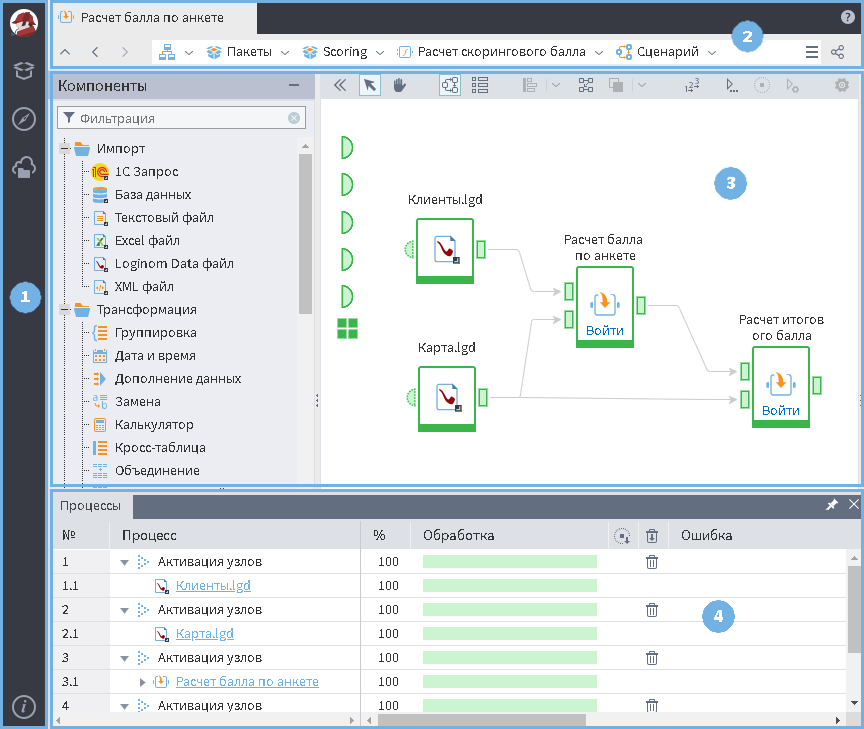
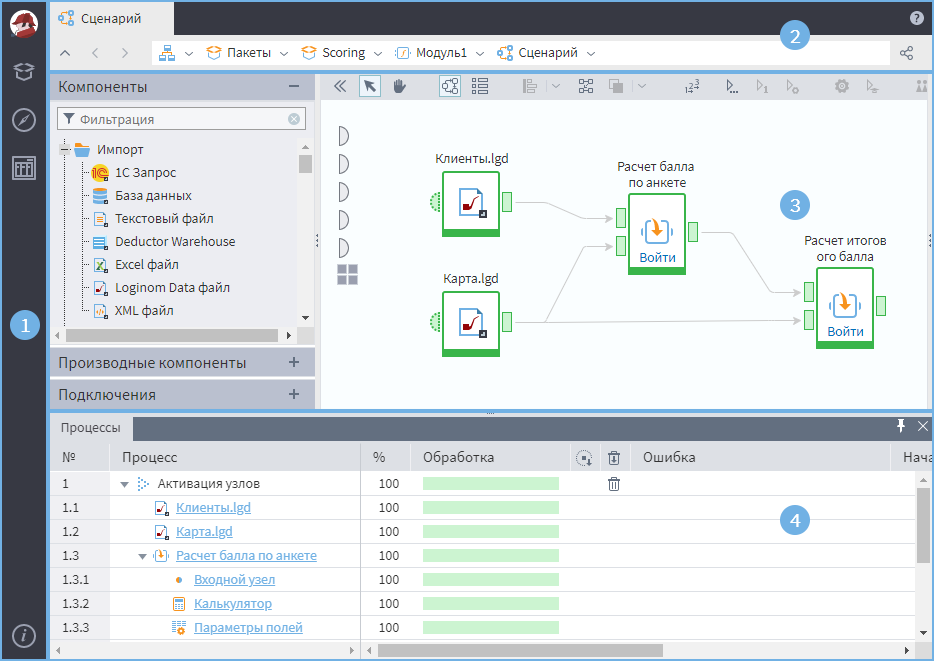
Заменил изображения в "Начало работы" и "Интеграция с базами данных". Исправил отсылки к рисункам в "Интеграция с базами данных".

diff --git a/quick-start/database.md b/quick-start/database.md
@@ -13,7 +13,7 @@
 Для создания узла:
 
 1. Открыть сценарий для редактирования и развернуть панель Подключения, в которой содержится перечень всех созданных в пакете подключений.
-2. Выделить необходимое подключение в панели и, вызвав кликом правой кнопки мыши его контекстное меню, воспользоваться одним из предложенных способов (см. рисунок 3):
+2. Выделить необходимое подключение в панели и, вызвав кликом правой кнопки мыши его контекстное меню, воспользоваться одним из предложенных способов (см. рисунок 1):
    * ![](../images/icons/toolbar-controls_18x18/toolbar-controls_18x18_show-reference-links_default.svg) Добавить ссылку на Подключение в Сценарий — в сценарий будет добавлен [Узел-ссылка](../processors/control/unit-link.md) (1) на подключение. Также создать узел-ссылку можно, перетащив мышью выбранное подключение в область построения сценария.
    * ![](../media/app/icons/toolbar-18/toolbar-18-145.svg) Добавить узел Подключения в Сценарий — в сценарий будет добавлен производный узел (2), унаследованный от выбранного подключения. Производный узел будет иметь те же настройки, что и выбранное подключение, однако, их возможно переопределить в мастере настройки узла (при этом настройки подключения, от которого был унаследован узел, не изменятся).
    * ![](../media/app/icons/toolbar-18/toolbar-18-1.svg) Настроить подключение — переход к окну настройки параметров подключения.
@@ -21,7 +21,7 @@
 
 ![Создание узла подключения в сценарии.](./database-1.png)
 
-Параметры подключения к источнику данных используются узлами [импорта](../integration/import/README.md)/[экспорта](../integration/export/README.md) данных. Для этого выходные данные порта ![](../images/icons/ports/output_connection_inactive.svg) узла подключения необходимо подать на входной порт ![](../images/icons/ports/input_connection_inactive.svg) нуждающегося в этом подключении узла импорта/экспорта (см. рисунок 4).
+Параметры подключения к источнику данных используются узлами [импорта](../integration/import/README.md)/[экспорта](../integration/export/README.md) данных. Для этого выходные данные порта ![](../images/icons/ports/output_connection_inactive.svg) узла подключения необходимо подать на входной порт ![](../images/icons/ports/input_connection_inactive.svg) нуждающегося в этом подключении узла импорта/экспорта (см. рисунок 2).
 
 ![Использование узла подключения.](./database-2.png)
 

diff --git a/integration/export/database/new-table-design.md b/integration/export/database/new-table-design.md
@@ -6,9 +6,15 @@
 
 %spoiler%Пример заполнения:%spoiler%
 
+{% tabs one="Настройка", two="SQL-запрос" %}
+
+{% content "one" %}
 ![Настройка полей новой таблицы.](./new-table-design-1.png)
 
+{% content "two" %}
 ![Представление создаваемой таблицы в виде SQL-запроса.](./new-table-design-2.png)
+
+{% endtabs %}
 
 %/spoiler%
 
